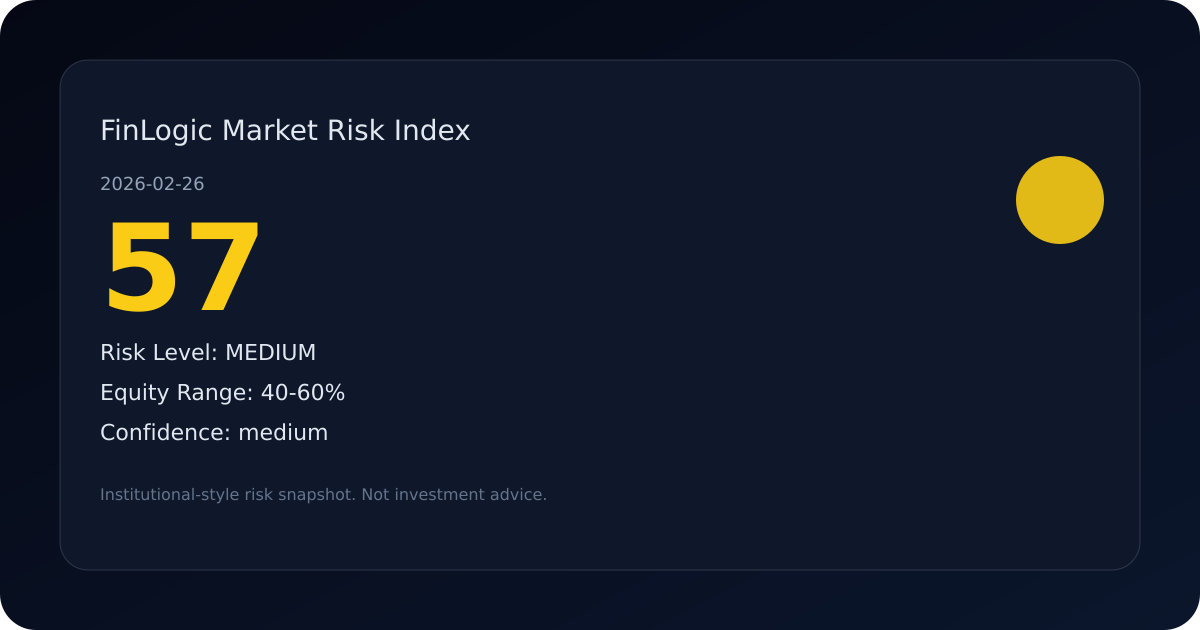
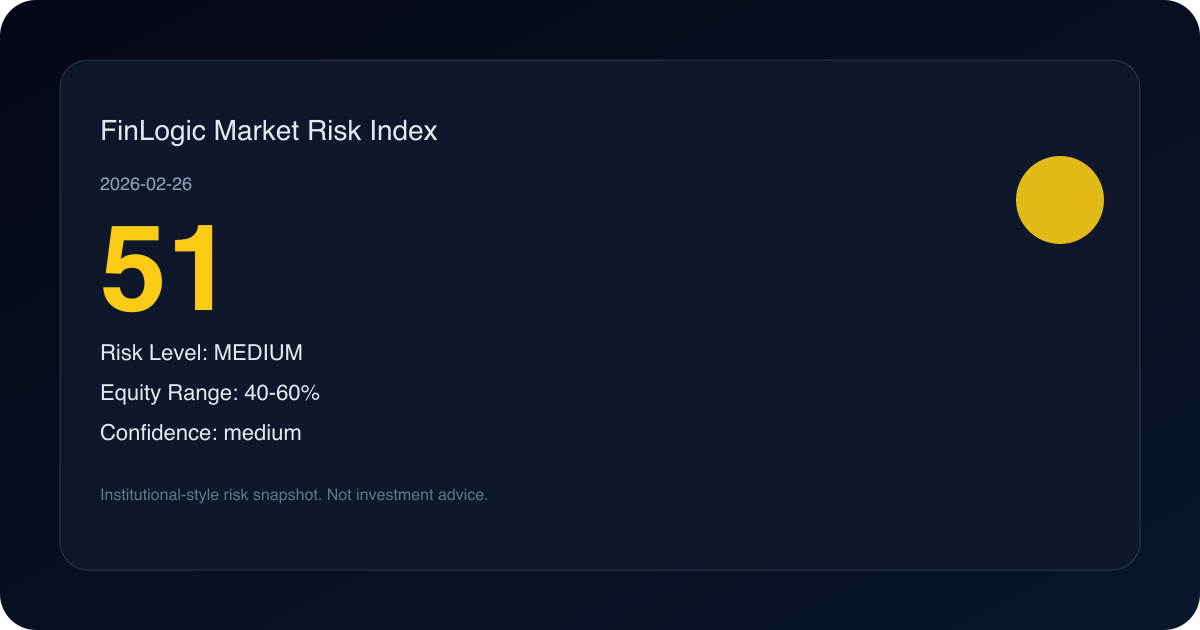
Feat: auto share text for MRI

diff --git a/public/daily/2026-02-26.html b/public/daily/2026-02-26.html
@@ -5,12 +5,12 @@
   <meta name="viewport" content="width=device-width, initial-scale=1.0">
   <meta name="robots" content="index,follow">
   <meta name="theme-color" content="#0f172a">
-  <meta name="description" content="2026-02-26市场风险灯为多云，风险分57，仓位区间40-60%。主题Top为Cybersecurity、Energy、Consumer，Bottom为AI、Healthcare、Defense，用于观察市场气候与风险偏好变化，仅作风险感知。">
+  <meta name="description" content="2026-02-26市场风险灯为多云，风险分51，仓位区间40-60%。主题Top为Energy、Cybersecurity、Consumer，Bottom为AI、Healthcare、Defense，用于观察市场气候与风险偏好变化，仅作风险感知。">
   <title>2026-02-26 市场风险状态 - FinLogicHub5</title>
   <link rel="canonical" href="https://finlogichub5.com/daily/2026-02-26.html">
   <meta property="og:type" content="website">
   <meta property="og:title" content="2026-02-26 市场风险状态 - FinLogicHub5">
-  <meta property="og:description" content="2026-02-26市场风险灯为多云，风险分57，仓位区间40-60%。主题Top为Cybersecurity、Energy、Consumer，Bottom为AI、Healthcare、Defense，用于观察市场气候与风险偏好变化，仅作风险感知。">
+  <meta property="og:description" content="2026-02-26市场风险灯为多云，风险分51，仓位区间40-60%。主题Top为Energy、Cybersecurity、Consumer，Bottom为AI、Healthcare、Defense，用于观察市场气候与风险偏好变化，仅作风险感知。">
   <meta property="og:url" content="https://finlogichub5.com/daily/2026-02-26.html">
   <link rel="preconnect" href="https://fonts.googleapis.com">
   <link rel="preconnect" href="https://fonts.gstatic.com" crossorigin>
@@ -20,7 +20,7 @@
       "@context": "https://schema.org",
       "@type": "WebPage",
       "name": "2026-02-26 市场风险状态",
-      "description": "2026-02-26市场风险灯为多云，风险分57，仓位区间40-60%。主题Top为Cybersecurity、Energy、Consumer，Bottom为AI、Healthcare、Defense，用于观察市场气候与风险偏好变化，仅作风险感知。",
+      "description": "2026-02-26市场风险灯为多云，风险分51，仓位区间40-60%。主题Top为Energy、Cybersecurity、Consumer，Bottom为AI、Healthcare、Defense，用于观察市场气候与风险偏好变化，仅作风险感知。",
       "inLanguage": "zh-CN",
       "url": "https://finlogichub5.com/daily/2026-02-26.html",
       "datePublished": "2026-02-26",
@@ -94,10 +94,10 @@
           <div class="lamp risk-yellow">🟡</div>
           <div>
             <div class="note">风险分</div>
-            <div class="score risk-yellow">57</div>
+            <div class="score risk-yellow">51</div>
             <div class="note">仓位区间 40-60%</div>
-            <div class="note">Δ 昨日 -6</div>
-            <div class="note">组件：趋势 25 / 压力 25 / 风险偏好 75</div>
+            <div class="note">Δ 昨日 -11</div>
+            <div class="note">组件：趋势 75 / 压力 25 / 风险偏好 50</div>
           </div>
         </div>
         <div class="badge">风险灯 · 多云 · medium</div>
@@ -108,42 +108,42 @@
         </details>
         <details style="margin-top:6px;">
           <summary style="cursor:pointer;color:#93c5fd;font-size:12px;list-style:none;">为何如此？</summary>
-          <div class="note">趋势风险偏低 / 压力风险偏低 / 风险偏好偏弱</div>
+          <div class="note">趋势风险偏高 / 压力风险偏低 / 风险偏好中性</div>
           <div class="note">
-            Trend 7
+            Trend 17
             <div style="height:8px;background:rgba(148,163,184,0.2);border-radius:999px;overflow:hidden;margin:4px 0 8px 0;">
-              <div style="height:100%;background:linear-gradient(90deg,#38bdf8,#22d3ee);width:7%"></div>
+              <div style="height:100%;background:linear-gradient(90deg,#38bdf8,#22d3ee);width:17%"></div>
             </div>
           </div>
           <div class="note">
-            Stress 15
+            Stress 13
             <div style="height:8px;background:rgba(148,163,184,0.2);border-radius:999px;overflow:hidden;margin:4px 0 8px 0;">
-              <div style="height:100%;background:linear-gradient(90deg,#38bdf8,#22d3ee);width:15%"></div>
+              <div style="height:100%;background:linear-gradient(90deg,#38bdf8,#22d3ee);width:13%"></div>
             </div>
           </div>
           <div class="note">
-            Regime 35
+            Regime 21
             <div style="height:8px;background:rgba(148,163,184,0.2);border-radius:999px;overflow:hidden;margin:4px 0 8px 0;">
-              <div style="height:100%;background:linear-gradient(90deg,#38bdf8,#22d3ee);width:35%"></div>
+              <div style="height:100%;background:linear-gradient(90deg,#38bdf8,#22d3ee);width:21%"></div>
             </div>
           </div>
-          <div class="note">Trend: 趋势风险25：价格在MA200上方（rule: close_vs_ma200） / Stress: 压力风险25：vol20 13.8%（rule: vol20_threshold） / Regime: 偏好风险75：risk-off 比率走弱（rule: ratio_down_20d）</div>
+          <div class="note">Trend: 趋势风险75：价格在MA200下方（rule: close_vs_ma200） / Stress: 压力风险25：vol20 16.2%（rule: vol20_threshold） / Regime: 偏好风险50：risk-off 比率走弱（rule: ratio_down_20d）</div>
         </details>
       </div>
       <div class="card">
         <div style="font-weight:700; margin-bottom:6px;">主题热度榜 Top 3</div>
-        <div class="theme-row"><span>Cybersecurity</span><span>69</span></div><div class="note">20D 走强 +9.3%</div><div class="theme-row"><span>Energy</span><span>60</span></div><div class="note">20D 走强 +5.2%</div><div class="theme-row"><span>Consumer</span><span>52</span></div><div class="note">20D 走强 +1.2%</div>
+        <div class="theme-row"><span>Energy</span><span>68</span></div><div class="note">20D 走强 +9.1%</div><div class="theme-row"><span>Cybersecurity</span><span>66</span></div><div class="note">20D 走强 +8.2%</div><div class="theme-row"><span>Consumer</span><span>56</span></div><div class="note">20D 走强 +3.1%</div>
       </div>
       <div class="card">
         <div style="font-weight:700; margin-bottom:6px;">主题热度榜 Bottom 3</div>
-        <div class="theme-row"><span>AI</span><span>32</span></div><div class="note">20D 回撤 -9.2%</div><div class="theme-row"><span>Healthcare</span><span>37</span></div><div class="note">20D 回撤 -6.4%</div><div class="theme-row"><span>Defense</span><span>49</span></div><div class="note">20D 回撤 -0.7%</div>
+        <div class="theme-row"><span>AI</span><span>34</span></div><div class="note">20D 回撤 -8.2%</div><div class="theme-row"><span>Healthcare</span><span>39</span></div><div class="note">20D 回撤 -5.3%</div><div class="theme-row"><span>Defense</span><span>43</span></div><div class="note">20D 回撤 -3.3%</div>
       </div>
       <div class="card">
         <div style="font-weight:700; margin-bottom:6px;">今日要点</div>
-        <ul class="list"><li>SPY 站上 MA200（趋势 +）</li><li>MA50 高于 MA200（中期多头）</li><li>20D 波动率 13.8%（压力可控）</li></ul>
+        <ul class="list"><li>SPY 跌破 MA200（趋势 -）</li><li>MA50 高于 MA200（中期多头）</li><li>20D 波动率 16.2%（压力可控）</li></ul>
       </div>
     </div>
-    <div class="explain">今日市场气候为多云，风险灯显示多云，风险分为57。仓位区间提示权益配置可参考40-60%，用于约束波动与回撤压力。主题热度榜的Top/Bottom反映资金偏好变化，需与趋势健康度、压力和风险偏好共同理解。若风险灯连续偏高，可考虑降低仓位并设置仓位护栏以控制回撤。以上内容仅作历史观察与风险提醒，不构成任何投资建议或收益承诺。</div>
+    <div class="explain">今日市场气候为多云，风险灯显示多云，风险分为51。仓位区间提示权益配置可参考40-60%，用于约束波动与回撤压力。主题热度榜的Top/Bottom反映资金偏好变化，需与趋势健康度、压力和风险偏好共同理解。若风险灯连续偏高，可考虑降低仓位并设置仓位护栏以控制回撤。以上内容仅作历史观察与风险提醒，不构成任何投资建议或收益承诺。</div>
     <div class="footer-links">
       <a href="https://finlogichub5.com/daily/2026-02-25.html">上一天</a>
       

diff --git a/public/index.html b/public/index.html
@@ -8,15 +8,19 @@
   <title>FinLogicHub5 - 市场风险指数与回测主页</title>
   <meta name="description" content="FinLogicHub5 主页：展示今日 MRI 市场风险指数、风险等级与更新时间，并提供进入指数页、Daily 归档与股票工具入口。">
   <link rel="canonical" href="https://finlogichub5.com/">
-  <meta property="og:type" content="website">
-  <meta property="og:title" content="FinLogicHub5 - 市场风险指数与回测主页">
-  <meta property="og:description" content="展示今日 MRI 市场风险指数、风险等级与更新时间，进入指数页、Daily 归档与股票工具入口。">
-  <meta property="og:url" content="https://finlogichub5.com/">
-  <meta property="og:image" content="https://finlogichub5.com/og/mri-latest.png">
-  <meta name="twitter:card" content="summary_large_image">
-  <meta name="twitter:title" content="FinLogicHub5 - 市场风险指数与回测主页">
-  <meta name="twitter:description" content="展示今日 MRI 市场风险指数、风险等级与更新时间。">
-  <meta name="twitter:image" content="https://finlogichub5.com/og/mri-latest.png">
+  <!-- MRI_OG_START -->
+<meta property="og:type" content="website">
+<meta property="og:title" content="MRI 51 · MEDIUM · 2026-02-26">
+<meta property="og:description" content="MRI 51｜市场风险中性。建议仓位40-60%。趋势下降，置信度medium。查看→ https://finlogichub5.com">
+<meta property="og:url" content="https://finlogichub5.com/">
+<meta property="og:site_name" content="FinLogicHub5">
+<meta property="og:locale" content="zh_CN">
+<meta property="og:image" content="https://finlogichub5.com/og/mri-latest.png">
+<meta name="twitter:card" content="summary_large_image">
+<meta name="twitter:title" content="MRI 51 · MEDIUM · 2026-02-26">
+<meta name="twitter:description" content="MRI 51｜市场风险中性。建议仓位40-60%。趋势下降，置信度medium。查看→ https://finlogichub5.com">
+<meta name="twitter:image" content="https://finlogichub5.com/og/mri-latest.png">
+<!-- MRI_OG_END -->
   <link rel="preconnect" href="https://fonts.googleapis.com">
   <link rel="preconnect" href="https://fonts.gstatic.com" crossorigin>
   <link href="https://fonts.googleapis.com/css2?family=Noto+Sans+SC:wght@400;600;700;800&family=Space+Grotesk:wght@400;500;600;700&display=swap" rel="stylesheet">
@@ -87,6 +91,17 @@
       font-size: 13px;
     }
     .btn:hover { border-color: var(--primary); color: var(--primary); }
+    .share-row { margin-top: 12px; display: flex; gap: 10px; flex-wrap: wrap; }
+    .ghost-btn {
+      padding: 10px 12px;
+      border-radius: 10px;
+      border: 1px solid rgba(148, 163, 184, 0.45);
+      background: rgba(15, 23, 42, 0.45);
+      color: #e2e8f0;
+      font-size: 12px;
+      cursor: pointer;
+    }
+    .ghost-btn:hover { border-color: var(--primary); color: var(--primary); }
     @media (max-width: 720px) { body { padding: 12px; } .container { padding: 16px; } }
   </style>
 </head>
@@ -107,6 +122,11 @@
       <div class="note" id="mriLevel">Risk Level: --</div>
       <div class="note" id="mriUpdated">Updated: --</div>
       <div class="note" id="mriEquity">Equity Range: --</div>
+    </div>
+    <div class="share-row">
+      <button class="ghost-btn" id="shareXBtn">Share on X</button>
+      <button class="ghost-btn" id="shareLinkedInBtn">Share on LinkedIn</button>
+      <button class="ghost-btn" id="copyShareBtn">Copy Link</button>
     </div>
 
     <div class="actions">
@@ -135,7 +155,32 @@
         document.getElementById('mriUpdated').textContent = 'Updated: -';
       }
     }
+
+    async function initShare() {
+      let shareText = 'FinLogic MRI';
+      try {
+        const shareRes = await fetch('/data/share_text.json', { cache: 'no-store' });
+        const shareData = await shareRes.json();
+        if (shareData?.shareText) shareText = shareData.shareText;
+      } catch (e) {}
+      const shareUrl = `${location.origin}/market-risk-index.html`;
+      document.getElementById('shareXBtn').onclick = () => {
+        const url = `https://twitter.com/intent/tweet?text=${encodeURIComponent(shareText)}&url=${encodeURIComponent(shareUrl)}`;
+        window.open(url, '_blank');
+      };
+      document.getElementById('shareLinkedInBtn').onclick = () => {
+        const url = `https://www.linkedin.com/sharing/share-offsite/?url=${encodeURIComponent(shareUrl)}`;
+        window.open(url, '_blank');
+      };
+      document.getElementById('copyShareBtn').onclick = async () => {
+        try {
+          await navigator.clipboard.writeText(`${shareText} ${shareUrl}`);
+          document.getElementById('copyShareBtn').textContent = 'Copied';
+        } catch (e) {}
+      };
+    }
     loadMRI();
+    initShare();
   </script>
 </body>
 </html>

diff --git a/public/market-risk-index.html b/public/market-risk-index.html
@@ -9,18 +9,18 @@
   <meta name="description" content="FinLogic 市场风险指数用于刻画市场风险状态与风险偏好变化，展示当前指数、仓位区间与30天趋势，辅助风险感知与仓位纪律管理，适合用于日常风险复盘与仓位跟踪。指数基于趋势、压力与风险偏好信号生成，仅作风险提示与历史观察，不预测收益，不构成投资建议。">
   <link rel="canonical" href="https://finlogichub5.com/market-risk-index.html">
   <!-- MRI_OG_START -->
-<meta property="og:type" content="website">
-<meta property="og:title" content="MRI 57 · MEDIUM · 2026-02-26">
-<meta property="og:description" content="FinLogic MRI 57，风险等级 medium，仓位区间 40-60%，置信度 medium。">
-<meta property="og:url" content="https://finlogichub5.com/market-risk-index.html">
-<meta property="og:site_name" content="FinLogicHub5">
-<meta property="og:locale" content="zh_CN">
-<meta property="og:image" content="https://finlogichub5.com/og/mri-latest.png">
-<meta name="twitter:card" content="summary_large_image">
-<meta name="twitter:title" content="MRI 57 · MEDIUM · 2026-02-26">
-<meta name="twitter:description" content="FinLogic MRI 57，风险等级 medium，仓位区间 40-60%，置信度 medium。">
-<meta name="twitter:image" content="https://finlogichub5.com/og/mri-latest.png">
-<!-- MRI_OG_END -->
+  <meta property="og:type" content="website">
+  <meta property="og:title" content="MRI 51 · MEDIUM · 2026-02-26">
+  <meta property="og:description" content="MRI 51｜市场风险中性。建议仓位40-60%。趋势下降，置信度medium。查看→ https://finlogichub5.com">
+  <meta property="og:url" content="https://finlogichub5.com/market-risk-index.html">
+  <meta property="og:site_name" content="FinLogicHub5">
+  <meta property="og:locale" content="zh_CN">
+  <meta property="og:image" content="https://finlogichub5.com/og/mri-latest.png">
+  <meta name="twitter:card" content="summary_large_image">
+  <meta name="twitter:title" content="MRI 51 · MEDIUM · 2026-02-26">
+  <meta name="twitter:description" content="MRI 51｜市场风险中性。建议仓位40-60%。趋势下降，置信度medium。查看→ https://finlogichub5.com">
+  <meta name="twitter:image" content="https://finlogichub5.com/og/mri-latest.png">
+  <!-- MRI_OG_END -->
   <link rel="preconnect" href="https://fonts.googleapis.com">
   <link rel="preconnect" href="https://fonts.gstatic.com" crossorigin>
   <link href="https://fonts.googleapis.com/css2?family=Noto+Sans+SC:wght@400;600;700;800&family=Space+Grotesk:wght@400;500;600;700&display=swap" rel="stylesheet">
@@ -187,7 +187,12 @@
         document.getElementById('riskDrivers').textContent = `Drivers: ${(data.keyDrivers || []).join(' / ')}`;
         document.getElementById('riskExplain').textContent = `${data.methodVersion || 'MRI-1.0'} · ${data.explanation || ''} · Inputs: ${(data.inputs || []).join(', ')}`;
         const levelText = data.level || 'medium';
-        const shareText = `MRI ${data.score} (${levelText.toUpperCase()}) · ${data.equityRange}`;
+        let shareText = `MRI ${data.score} (${levelText.toUpperCase()}) · ${data.equityRange}`;
+        try {
+          const shareRes = await fetch('/data/share_text.json', { cache: 'no-store' });
+          const shareData = await shareRes.json();
+          if (shareData?.shareText) shareText = shareData.shareText;
+        } catch (e) {}
         const shareUrl = `${location.origin}/market-risk-index.html`;
         document.getElementById('shareXBtn').onclick = () => {
           const url = `https://twitter.com/intent/tweet?text=${encodeURIComponent(shareText)}&url=${encodeURIComponent(shareUrl)}`;

diff --git a/tools/generate_daily.js b/tools/generate_daily.js
@@ -14,6 +14,7 @@ const MOCK_PATH = path.resolve(__dirname, 'mock_prices.json');
 const OUT_PATH = path.resolve(DATA_DIR, 'daily.json');
 const RISK_INDEX_PATH = path.resolve(DATA_DIR, 'risk_index.json');
 const RISK_INDEX_HISTORY_PATH = path.resolve(DATA_DIR, 'risk_index_history.json');
+const SHARE_TEXT_PATH = path.resolve(DATA_DIR, 'share_text.json');
 const OG_DIR = path.resolve(__dirname, '..', 'public', 'og');
 const ARCHIVE_DIR = path.resolve(__dirname, '..', 'public', 'daily');
 const RECENT_PATH = path.resolve(ARCHIVE_DIR, 'recent.json');
@@ -826,6 +827,15 @@ function calcConfidence(components) {
   return { level: "low", reason: "组件分歧小，信号偏弱" };
 }
 
+function generateShareText(riskData, trend) {
+  const mri = riskData.score ?? 0;
+  const riskLevel = mri < 30 ? "低" : mri <= 70 ? "中性" : "高";
+  const range = riskData.equityRange || "--";
+  const confidence = riskData.confidenceLevel || "medium";
+  const trendText = trend === "up" ? "上升" : trend === "down" ? "下降" : "持平";
+  return `MRI ${mri}｜市场风险${riskLevel}。建议仓位${range}。趋势${trendText}，置信度${confidence}。查看→ https://finlogichub5.com`;
+}
+
 async function main() {
   const { data, status } = await loadDataSource();
   const yesterday = getYesterdayRisk();
@@ -840,6 +850,20 @@ async function main() {
     }
   };
   daily.dataStatus = status;
+
+  const trend = yesterday?.score
+    ? (daily.riskIndex.score > yesterday.score ? "up" : daily.riskIndex.score < yesterday.score ? "down" : "flat")
+    : "flat";
+  const shareText = generateShareText(daily.riskIndex, trend);
+  const sharePayload = {
+    date: daily.date,
+    mri: daily.riskIndex.score,
+    riskLevel: daily.riskIndex.level,
+    equityRange: daily.riskIndex.equityRange,
+    trend,
+    confidence: daily.riskIndex.confidenceLevel || "medium",
+    shareText
+  };
   fs.mkdirSync(DATA_DIR, { recursive: true });
   fs.writeFileSync(OUT_PATH, JSON.stringify(daily, null, 2));
   console.log('daily.json updated:', OUT_PATH);
@@ -866,6 +890,8 @@ async function main() {
   };
   fs.writeFileSync(RISK_INDEX_PATH, JSON.stringify(daily.riskIndex, null, 2));
   console.log('risk_index.json updated:', RISK_INDEX_PATH);
+  fs.writeFileSync(SHARE_TEXT_PATH, JSON.stringify(sharePayload, null, 2));
+  console.log('share_text.json updated:', SHARE_TEXT_PATH);
 
   fs.mkdirSync(ARCHIVE_DIR, { recursive: true });
   const archiveJsonPath = path.join(ARCHIVE_DIR, `${daily.date}.json`);
@@ -936,7 +962,7 @@ async function main() {
   }
 
   const ogTitle = `MRI ${daily.riskIndex.score} · ${daily.riskIndex.level.toUpperCase()} · ${daily.date}`;
-  const ogDesc = `FinLogic MRI ${daily.riskIndex.score}，风险等级 ${daily.riskIndex.level}，仓位区间 ${daily.riskIndex.equityRange}，置信度 ${daily.riskIndex.confidenceLevel}。`;
+  const ogDesc = shareText;
   const ogImage = `${SITE_ROOT}/og/mri-latest.png`;
   const ogBlock = [
     `<meta property="og:type" content="website">`,

diff --git a/public/daily.html b/public/daily.html
@@ -9,15 +9,15 @@
   <title>每日市场状态 - FinLogicHub5</title>
   <!-- MRI_OG_START -->
 <meta property="og:type" content="website">
-<meta property="og:title" content="MRI 57 · MEDIUM · 2026-02-26">
-<meta property="og:description" content="FinLogic MRI 57，风险等级 medium，仓位区间 40-60%，置信度 medium。">
+<meta property="og:title" content="MRI 51 · MEDIUM · 2026-02-26">
+<meta property="og:description" content="MRI 51｜市场风险中性。建议仓位40-60%。趋势下降，置信度medium。查看→ https://finlogichub5.com">
 <meta property="og:url" content="https://finlogichub5.com/daily.html">
 <meta property="og:site_name" content="FinLogicHub5">
 <meta property="og:locale" content="zh_CN">
 <meta property="og:image" content="https://finlogichub5.com/og/mri-latest.png">
 <meta name="twitter:card" content="summary_large_image">
-<meta name="twitter:title" content="MRI 57 · MEDIUM · 2026-02-26">
-<meta name="twitter:description" content="FinLogic MRI 57，风险等级 medium，仓位区间 40-60%，置信度 medium。">
+<meta name="twitter:title" content="MRI 51 · MEDIUM · 2026-02-26">
+<meta name="twitter:description" content="MRI 51｜市场风险中性。建议仓位40-60%。趋势下降，置信度medium。查看→ https://finlogichub5.com">
 <meta name="twitter:image" content="https://finlogichub5.com/og/mri-latest.png">
 <!-- MRI_OG_END -->
   <link rel="preconnect" href="https://fonts.googleapis.com">
@@ -619,7 +619,12 @@
         const notes = data.componentNotes || {};
         document.getElementById('riskIndexNotes').textContent = `Trend: ${notes.trend || '--'} / Stress: ${notes.stress || '--'} / Regime: ${notes.regime || '--'}`;
         const levelText = data.level || 'medium';
-        const shareText = `MRI ${data.score} (${levelText.toUpperCase()}) · ${data.equityRange}`;
+        let shareText = `MRI ${data.score} (${levelText.toUpperCase()}) · ${data.equityRange}`;
+        try {
+          const shareRes = await fetch('/data/share_text.json', { cache: 'no-store' });
+          const shareData = await shareRes.json();
+          if (shareData?.shareText) shareText = shareData.shareText;
+        } catch (e) {}
         const shareUrl = `${location.origin}/market-risk-index.html`;
         document.getElementById('shareXBtn').onclick = () => {
           const url = `https://twitter.com/intent/tweet?text=${encodeURIComponent(shareText)}&url=${encodeURIComponent(shareUrl)}`;
